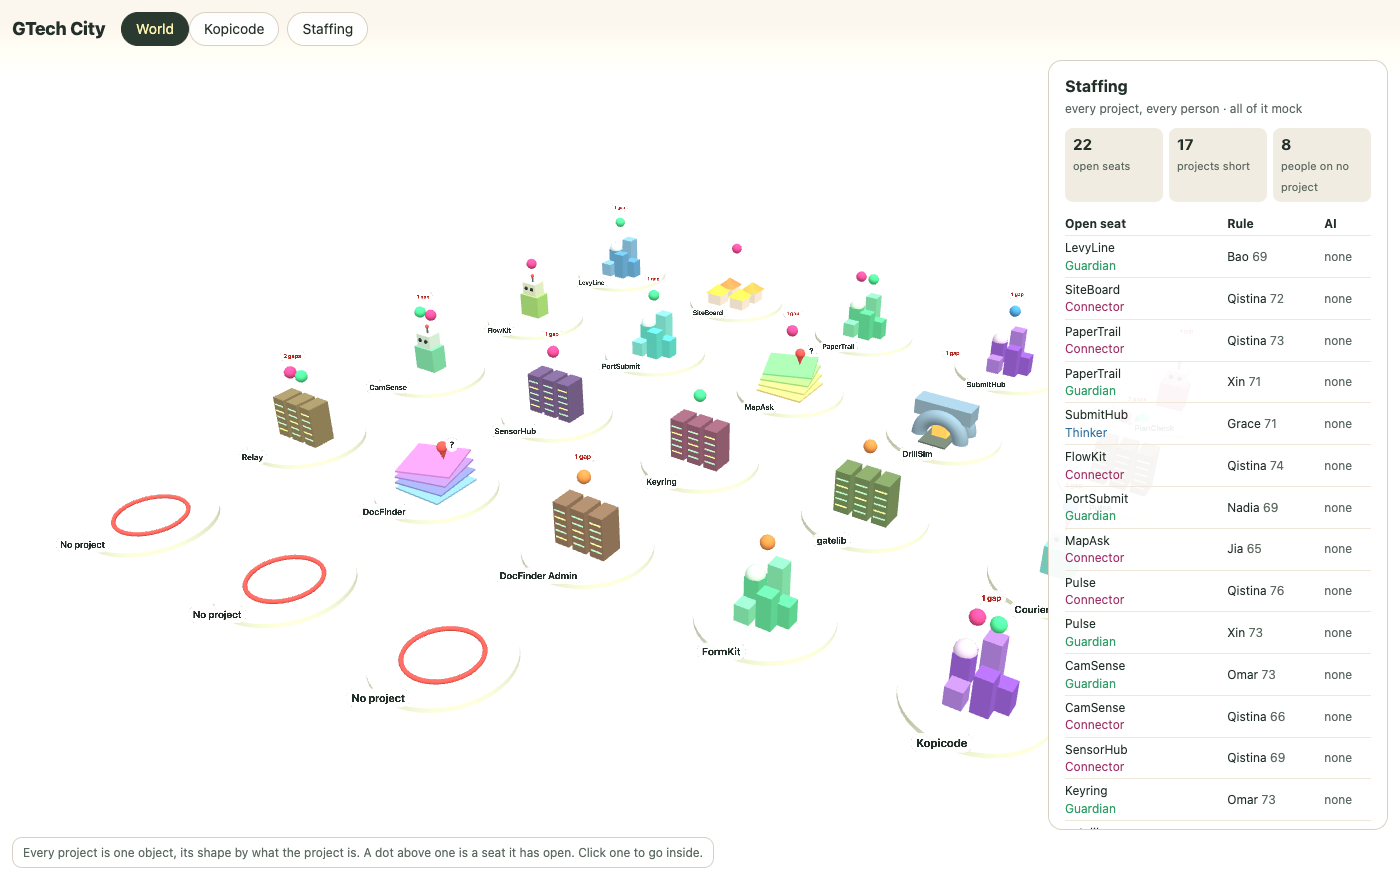
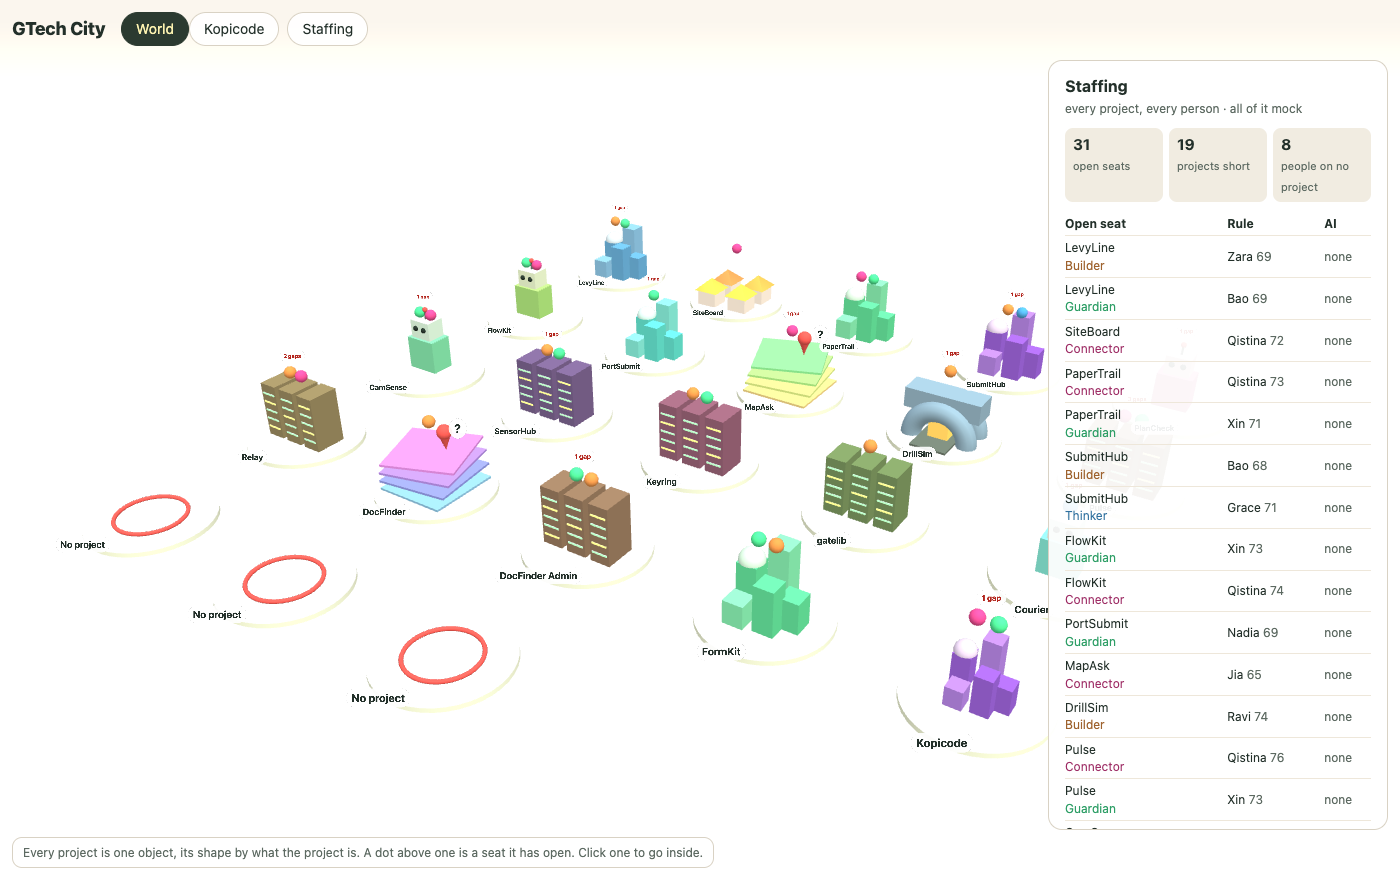
feat: a catalogue project with no scanned repository has a dummy inside, so every project can be entered

diff --git a/site/dummy.js b/site/dummy.js
@@ -1,0 +1,162 @@
+// A DUMMY inside for a catalogue project that has no scanned repository, so that
+// every project can be entered. EVERYTHING it returns is invented from a seed
+// (the project's id): the buildings, the floors, every file, line and test
+// count, the dependencies, the stack, the services, the commits and the date of
+// the last one. It is in the shape tools/scan.mjs writes, and marked `dummy`,
+// so the page can say on the card that no repository was read.
+window.GTECH_DUMMY = (function () {
+  "use strict";
+  function seeded(text) {
+    var h = 2166136261;
+    for (var i = 0; i < text.length; i++)
+      h = Math.imul(h ^ text.charCodeAt(i), 16777619);
+    return function () {
+      h += 0x6d2b79f5;
+      var t = Math.imul(h ^ (h >>> 15), 1 | h);
+      t = (t + Math.imul(t ^ (t >>> 7), 61 | t)) ^ t;
+      return ((t ^ (t >>> 14)) >>> 0) / 4294967296;
+    };
+  }
+  var APPS = ["web", "api", "worker", "admin", "mobile"];
+  var SERVICE_APPS = ["api", "worker", "gateway"];
+  var PACKAGES = ["ui", "shared", "db", "config", "auth-client", "sdk"];
+  var DOMAINS = [
+    "auth",
+    "billing",
+    "reports",
+    "notifications",
+    "search",
+    "uploads",
+    "workflow",
+    "audit",
+    "settings",
+    "dashboard",
+    "records",
+    "payments",
+    "users",
+    "integrations",
+  ];
+  var SUPPORT = ["common", "config", "utils", "types"];
+  var STACK = [
+    "React",
+    "Vite",
+    "NestJS",
+    "TypeORM",
+    "Zod",
+    "Tailwind",
+    "TanStack Query",
+    "BullMQ",
+    "Hono",
+    "Express",
+  ];
+  var SERVICES = [
+    { name: "postgres", image: "postgres:16" },
+    { name: "redis", image: "redis:7" },
+    { name: "minio", image: "minio/minio" },
+  ];
+
+  var made = {};
+  return function (app) {
+    if (made[app.id]) return made[app.id];
+    var rnd = seeded("dummy:" + app.id);
+    var pick = function (pool, n) {
+      var from = pool.slice();
+      var out = [];
+      while (out.length < n && from.length)
+        out.push(from.splice(Math.floor(rnd() * from.length), 1)[0]);
+      return out;
+    };
+    // Three projects in ten have almost no tests; the rest have a fair share.
+    var testShare = rnd() < 0.3 ? rnd() * 0.08 : 0.1 + rnd() * 0.25;
+    var unit = function (id, group, domainFloors) {
+      var floors = pick(DOMAINS, domainFloors)
+        .map(function (name) {
+          return { name: name, kind: "domain" };
+        })
+        .concat(
+          pick(SUPPORT, 1 + Math.floor(rnd() * 2)).map(function (name) {
+            return { name: name, kind: "support" };
+          }),
+        )
+        .map(function (f) {
+          var files = 3 + Math.round(rnd() * rnd() * 60);
+          return {
+            name: f.name,
+            kind: f.kind,
+            files: files,
+            lines: files * (40 + Math.round(rnd() * 100)),
+            tests: Math.round(files * testShare * (0.5 + rnd())),
+          };
+        });
+      var sum = function (key) {
+        return floors.reduce(function (n, f) {
+          return n + f[key];
+        }, 0);
+      };
+      return {
+        id: id,
+        path: group + "/" + id,
+        group: group,
+        files: sum("files"),
+        lines: sum("lines"),
+        tests: sum("tests"),
+        floors: floors,
+        deps: [],
+        stack: pick(STACK, 1 + Math.floor(rnd() * 3)),
+        summary: "",
+      };
+    };
+    var service = app.type === "service";
+    var packages = pick(PACKAGES, service ? Math.floor(rnd() * 3) : 1 + Math.floor(rnd() * 3)).map(
+      function (id) {
+        return unit(id, "packages", Math.floor(rnd() * 2));
+      },
+    );
+    var apps = pick(
+      service ? SERVICE_APPS : APPS,
+      service ? 1 + Math.floor(rnd() * 2) : 1 + Math.floor(rnd() * 3),
+    ).map(function (id) {
+      var u = unit(id, "apps", 2 + Math.floor(rnd() * 4));
+      // An app leans on one or two of the project's own packages.
+      u.deps = pick(
+        packages.map(function (p) {
+          return p.id;
+        }),
+        1 + Math.floor(rnd() * 2),
+      );
+      return u;
+    });
+    var units = apps.concat(packages);
+    var total = function (key) {
+      return units.reduce(function (n, u) {
+        return n + u[key];
+      }, 0);
+    };
+    // The last commit is a number of days back from today, so the demo does
+    // not age: three projects in ten have been quiet for more than a quarter.
+    var days = rnd() < 0.3 ? 95 + Math.round(rnd() * 200) : 1 + Math.round(rnd() * 60);
+    var last = new Date(Date.now() - days * 86400000).toISOString().slice(0, 10);
+    made[app.id] = {
+      schema: "gtech-district/1",
+      dummy: true,
+      id: app.id,
+      name: app.name,
+      kind: app.kind,
+      summary: app.what ? app.what + "." : "",
+      scannedAt: null,
+      git: {
+        commits: 80 + Math.round(rnd() * 900),
+        lastCommit: last,
+        contributors: 2 + Math.floor(rnd() * 2),
+      },
+      totals: {
+        files: total("files"),
+        lines: total("lines"),
+        tests: total("tests"),
+      },
+      units: units,
+      services: pick(SERVICES, Math.floor(rnd() * 3)),
+    };
+    return made[app.id];
+  };
+})();

diff --git a/site/people.js b/site/people.js
@@ -504,7 +504,8 @@ window.GTECH_PEOPLE = (function () {
    * not depend on what is clicked: the scanned ones first (each as large as its
    * git contributor count), then the catalogue's other projects, which have no
    * repository to count, so their size and commits are invented from a seed.
-   * `list` is [{ id, name, district }], `district` null where none is scanned.
+   * `list` is [{ id, name, district }]; `district` is a scan, a dummy inside
+   * (marked `dummy`) or null.
    */
   var projects = {};
   /** A project as the people module knows it: its scan, or a stand-in with a mock team size. */
@@ -513,34 +514,30 @@ window.GTECH_PEOPLE = (function () {
   }
 
   function staff(list) {
+    var real = function (e) {
+      return e.district && !e.district.dummy;
+    };
+    list.filter(real).forEach(function (e) {
+      projects[e.id] = e.district;
+      teamOf(e.district);
+    });
     list
       .filter(function (e) {
-        return e.district;
-      })
-      .forEach(function (e) {
-        projects[e.id] = e.district;
-        teamOf(e.district);
-      });
-    list
-      .filter(function (e) {
-        return !e.district;
+        return !real(e);
       })
       .forEach(function (e) {
         var rnd = seeded("size:" + e.id);
-        teamOf(
-          (projects[e.id] = {
-          id: e.id,
-          name: e.name,
-          git: {
-            contributors: 2 + Math.floor(rnd() * 2),
-            commits: 80 + Math.round(rnd() * 900),
-          },
-          }),
-        );
+        // A dummy inside keeps its own structure; its team size and commits are set here.
+        var d = e.district || { id: e.id, name: e.name };
+        d.git = d.git || {};
+        d.git.contributors = 2 + Math.floor(rnd() * 2);
+        d.git.commits = 80 + Math.round(rnd() * 900);
+        projects[e.id] = d;
+        teamOf(d);
       });
   }
 
-  /** The people on a project that cannot be entered, for its card. */
+  /** The people on a project, for its card. */
   function teamCard(id) {
     var team = teams[id];
     if (!team) return "";
@@ -834,7 +831,7 @@ window.GTECH_PEOPLE = (function () {
       QUIET_DAYS +
       " days, documentation over " +
       OLD_DOCS +
-      " days old, no owner, or a trait nobody on the team has. Tests and commits are read from a scanned repository; the catalogue and the team are invented. Click a seat for who could take it.</p>"
+      " days old, no owner, or a trait nobody on the team has. Tests and commits are read from a scanned repository and invented for a dummy inside; the catalogue and the team are invented. Click a seat for who could take it.</p>"
     );
   }
 

diff --git a/site/city.js b/site/city.js
@@ -421,7 +421,9 @@
         name: a.name,
         kind: a.kind,
         app: a,
-        district: scanned[a.id] || null,
+        // A project with no scanned repository gets a dummy inside, so it can be entered.
+        district:
+          scanned[a.id] || (window.GTECH_DUMMY ? window.GTECH_DUMMY(a) : null),
       };
     })
     .concat(
@@ -789,8 +791,10 @@
     card.innerHTML =
       "<h2>" +
       esc(d.name) +
-      '</h2><p class="sub">project · scanned ' +
-      esc(d.scannedAt) +
+      '</h2><p class="sub">' +
+      (d.dummy
+        ? "project · dummy inside: no repository scanned"
+        : "project · scanned " + esc(d.scannedAt)) +
       "</p>" +
       (d.summary ? "<p>" + esc(d.summary) + "</p>" : "") +
       '<div class="facts"><div><b>' +
@@ -913,6 +917,13 @@
         );
       },
     );
+    if (typeof here !== "undefined") {
+      here.hidden = !(inside && inside.district.dummy);
+      if (!here.hidden) {
+        here.textContent = inside.district.name;
+        here.setAttribute("aria-pressed", "true");
+      }
+    }
     explodeBtn.hidden = !inside;
     // With no dependency between its buildings a project has no wiring to show.
     wiringBtn.hidden = !inside || !inside.wires.children.length;
@@ -932,7 +943,12 @@
   function showProject() {
     var p = inside;
     showDistrict(p.district);
-    card.innerHTML += seatsOf(p.entry, showProject);
+    if (p.district.dummy)
+      card.innerHTML +=
+        '<p class="sub" style="margin-top:8px">Every building, floor, count, dependency and date above is invented, so that the project has an inside. Scan its repository to replace it.</p>';
+    card.innerHTML +=
+      (People ? People.teamCard(p.district.id) : "") +
+      seatsOf(p.entry, showProject);
     card.innerHTML +=
       '<h2 style="margin-top:14px;font-size:14px">Business</h2>' +
       businessHtml(p.entry) +
@@ -1186,11 +1202,16 @@
   }
   chip("World", "", leave);
   places.forEach(function (p) {
-    if (!p.district) return; // only a project with a scanned repository has an inside
+    // A chip for each scanned repository; a dummy inside is reached from the world.
+    if (!p.district || p.district.dummy) return;
     chip(p.district.name, p.district.id, function () {
       enter(p);
     });
   });
+  // One more chip names the dummy project the page is inside, while it is.
+  chip("", "here", function () {});
+  var here = bar.lastChild;
+  here.hidden = true;
 
   explodeBtn.setAttribute("aria-pressed", String(explodeGoal === 1));
   explodeBtn.addEventListener("click", function () {

diff --git a/site/index.html b/site/index.html
@@ -195,6 +195,7 @@
       });
     </script>
     <script src="catalogue.js"></script>
+    <script src="dummy.js"></script>
     <!-- Written by tools/analyze.mjs; the page works without it. -->
     <script src="analysis.js"></script>
     <script src="people.js"></script>

diff --git a/README.md b/README.md
@@ -35,10 +35,12 @@ Where to find it on the page:
 
 - **In the world**, a dot above a project is a seat it has open, in the colour of the trait it needs.
 - **Staffing**, in the bar, lists every open seat with who the rule and the model would put in it, and every person with what they are on and the time they have left.
-- **A project's card** lists its team and its open seats, whether or not the project can be entered.
+- **A project's card** lists its team and its open seats.
 - **Inside a project**, the candidate being looked at stands see-through at the end of the team, on a ring that marks the seat.
 
 ![Every open seat and every person on one card](docs/staffing.png)
+
+![Inside a project: its team, and a candidate standing see-through in the open seat](docs/inside.png)
 
 It works in three layers, each shown on the page with its reasons:
 
@@ -53,7 +55,7 @@ What to know before trusting any of it:
 - **Every person is invented.** The ranking shows how the match works and says nothing about anyone real. With real people this becomes profiling for staffing decisions, which needs consent, a way to contest a result and HR's agreement before any data goes in.
 - **The weights and the habits are guesses.** That a Builder seat suits working in bursts, that intention is worth as much as behaviour, or that a team is better for someone who works the way it does, is a choice made for the demo with no data behind it.
 - **The rule's view of a team is crude.** It compares a candidate with the team's averages and counts who wants to lead. It knows nothing of how particular people get on.
-- **Only a scanned project can be entered.** The catalogue's other projects have a team and seats on their card, but no inside, so no candidate stands in their seats.
+- **A catalogue project's inside is a dummy.** Every project can be entered, but only a scanned one shows a real repository. For the others `site/dummy.js` invents the buildings, floors, counts, dependencies and last commit from a seed, and the card says so. A seat such as "8% of its source files are tests" on one of them rests on an invented number.
 - **The rule fills each seat as if it were the only one.** The same person can head several shortlists, as the Staffing card shows; nothing yet works out one plan in which each person takes one seat.
 - **The model has only read the scanned project's seats.** The committed analysis covers every person and Kopicode's two seats; the catalogue projects' seats show the rule's ranking alone.
 - **The committed `site/analysis.js` was written by Claude in a coding session**, from the exact input the tool prints with `--dry`, because no API key was to hand. Each box on the page says so. The tool's own call to the API has not been run.
@@ -66,8 +68,9 @@ What to know before trusting any of it:
 | A project's buildings, floors, file and line counts, dependencies, stack, services | Read from the repository by `tools/scan.mjs`                            |
 | Commits, contributor count, last commit                                            | Read from git, as counts only: no names                                 |
 | The object a project is drawn as                                                   | Matched by rule from its name and summary, or set by hand with `--kind` |
+| **The inside of a catalogue project with no scanned repository**                   | **Invented from a seed by `site/dummy.js`; its card says "dummy inside"** |
 | **People: names, the four traits, behaviour, intention, contributions, quality**   | **Invented from a seed. Nothing is read from git, HR or an interview**  |
-| Why a seat is open: the share of tests, the days since the last commit             | Read from the repository and git                                        |
+| Why a seat is open: the share of tests, the days since the last commit             | Read from the repository and git; invented for a dummy inside           |
 | Why a seat is open: no owner, not in the catalogue, a trait the team lacks         | The dummy catalogue and the invented team                               |
 | A candidate's fit score                                                            | Worked out by rule from the invented people                             |
 | The AI reading, the AI's pick and its risk                                         | Written by a model about the invented people; labelled with which model |
